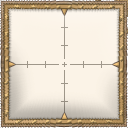
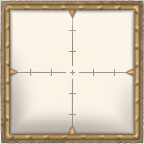
various hacking

diff --git a/net/lahwran/zanminimap/ZanMinimap.java b/net/lahwran/zanminimap/ZanMinimap.java
@@ -127,7 +127,7 @@ public class ZanMinimap {
         {
             if (!conf.welcome) menu.iMenu = 0;
         }
-        if (obfhub.game.r == null && menu.iMenu > 1) menu.iMenu = 0;
+        if (obfhub.worldIsNull() && menu.iMenu > 1) menu.iMenu = 0;
 
         if ((obfhub.isIngameMenuUp()) ^ (Keyboard.isKeyDown(Keyboard.KEY_F6)))
             conf.enabled = false;
@@ -186,7 +186,7 @@ public class ZanMinimap {
         {
             if (this.q != 0) obfhub.glah(this.q);
 
-            if (conf.showmap)
+            if (conf.squaremap)
             {
                 if (conf.zoom == 3)
                 {
@@ -199,14 +199,15 @@ public class ZanMinimap {
                     this.q = obfhub.tex(mapcalc.map[conf.zoom]);
 
                 obfhub.draw_startQuads();
-                this.setMap(scWidth);
+                this.drawOnMap(scWidth);
                 obfhub.draw_finish();
 
+                GL11.glBlendFunc(GL11.GL_SRC_ALPHA, GL11.GL_ONE_MINUS_SRC_ALPHA);
                 try
                 {
                     obfhub.disp(obfhub.img("/minimap.png"));
                     obfhub.draw_startQuads();
-                    this.setMap(scWidth);
+                    this.drawOnMap(scWidth);
                     obfhub.draw_finish();
                 }
                 catch (Exception localException)
@@ -222,7 +223,7 @@ public class ZanMinimap {
                     GL11.glRotatef(-this.direction - 90.0F, 0.0F, 0.0F, 1.0F);
                     GL11.glTranslatef(-(scWidth - 32.0F), -37.0F, 0.0F);
                     obfhub.draw_startQuads();
-                    this.setMap(scWidth);
+                    this.drawOnMap(scWidth);
                     obfhub.draw_finish();
                 }
                 catch (Exception localException)
@@ -258,12 +259,11 @@ public class ZanMinimap {
                     GL11.glTranslatef(-0.5f, -0.5f, 0.0f);
 
                 obfhub.draw_startQuads();
-                this.setMap(scWidth);
+                this.drawOnMap(scWidth);
                 obfhub.draw_finish();
                 GL11.glPopMatrix();
                 GL11.glBlendFunc(GL11.GL_SRC_ALPHA, GL11.GL_ONE_MINUS_SRC_ALPHA);
 
-                GL11.glColor3f(1.0F, 1.0F, 1.0F);
                 this.drawRound(scWidth);
                 this.drawDirections(scWidth);
 
@@ -288,7 +288,7 @@ public class ZanMinimap {
                                 GL11.glTranslatef(-(scWidth - 32.0F), -37.0F, 0.0F);
                                 GL11.glTranslated(0.0D, -34.0D, 0.0D);
                                 obfhub.draw_startQuads();
-                                this.setMap(scWidth);
+                                this.drawOnMap(scWidth);
                                 obfhub.draw_finish();
                             }
                             catch (Exception localException)
@@ -327,7 +327,7 @@ public class ZanMinimap {
                                 GL11.glTranslatef(-(scWidth - 32.0F), -37.0F, 0.0F);
                                 GL11.glTranslated(0.0D, -hypot, 0.0D);
                                 obfhub.draw_startQuads();
-                                this.setMap(scWidth);
+                                this.drawOnMap(scWidth);
                                 obfhub.draw_finish();
                             }
                             catch (Exception localException)
@@ -379,8 +379,6 @@ public class ZanMinimap {
         }
     }
 
-
-
     private void showCoords(int scWidth, int scHeight)
     {
         if (!conf.hide)
@@ -405,7 +403,7 @@ public class ZanMinimap {
         {
             obfhub.disp(obfhub.img("/roundmap.png"));
             obfhub.draw_startQuads();
-            this.setMap(paramInt1);
+            this.drawOnMap(paramInt1);
             obfhub.draw_finish();
         }
         catch (Exception localException)
@@ -414,9 +412,7 @@ public class ZanMinimap {
         }
     }
 
-
-
-    private void setMap(int paramInt1)
+    private void drawOnMap(int paramInt1)
     {
         obfhub.ldraw_addVertexWithUV(paramInt1 - 64.0D, 64.0D + 5.0D, 1.0D, 0.0D, 1.0D);
         obfhub.ldraw_addVertexWithUV(paramInt1, 64.0D + 5.0D, 1.0D, 1.0D, 1.0D);

diff --git a/net/lahwran/zanminimap/Config.java b/net/lahwran/zanminimap/Config.java
@@ -48,7 +48,7 @@ public class Config {
     public int menuKey = Keyboard.KEY_M;
 
     /** Square map toggle */
-    public boolean showmap = false;
+    public boolean squaremap = false;
 
     /** Show coordinates toggle */
     public boolean coords = true;
@@ -152,7 +152,7 @@ public class Config {
                 String[] curLine = sCurrentLine.split(":");
 
                 if (curLine[0].equals("Show Minimap"))
-                    showmap = Boolean.parseBoolean(curLine[1]);
+                    squaremap = Boolean.parseBoolean(curLine[1]);
                 else if (curLine[0].equals("Show Coordinates"))
                     coords = Boolean.parseBoolean(curLine[1]);
                 else if (curLine[0].equals("Dynamic Lighting"))
@@ -573,7 +573,7 @@ public class Config {
         try
         {
             PrintWriter out = new PrintWriter(new FileWriter(settingsFile));
-            out.println("Show Minimap:" + Boolean.toString(showmap));
+            out.println("Show Minimap:" + Boolean.toString(squaremap));
             out.println("Show Coordinates:" + Boolean.toString(coords));
             out.println("Dynamic Lighting:" + Boolean.toString(lightmap));
             out.println("Terrain Depth:" + Boolean.toString(heightmap));

diff --git a/net/lahwran/zanminimap/ObfHub.java b/net/lahwran/zanminimap/ObfHub.java
@@ -60,9 +60,22 @@ public class ObfHub {
         try {
             fd world = getWorld();
             Class worldclass = world.getClass();
-            Field worlddatafield = worldclass.getDeclaredField("x");
+            Field worlddatafield = null;
+            while (true) { //
+                
+                try {
+                    worlddatafield = worldclass.getDeclaredField("x");
+                    break;
+                } catch (NoSuchFieldException e) {
+                    worldclass = worldclass.getSuperclass();
+                    continue;
+                }
+            }
             worlddatafield.setAccessible(true);
-            ei worldata = (ei) worlddatafield.get(world);
+            
+            ei worldata;
+            
+            worldata = (ei) worlddatafield.get(world);
             return worldata.j();
         } catch (Exception e) {
             throw new RuntimeException(e);
@@ -327,5 +340,8 @@ public class ObfHub {
             default:
                 return original;
         }*/
+    }
+    public boolean worldIsNull() {
+        return game.r == null;
     }
 }

diff --git a/net/lahwran/zanminimap/Menu.java b/net/lahwran/zanminimap/Menu.java
@@ -786,7 +786,7 @@ public class Menu {
         else if (i == 1) return conf.hide;
         else if (i == 2) return conf.lightmap;
         else if (i == 3) return conf.heightmap;
-        else if (i == 4) return conf.showmap;
+        else if (i == 4) return conf.squaremap;
         else if (i == 5) return conf.welcome;
         else if (i == 6) return conf.threading;
         else if (i == 7) return conf.color;
@@ -814,7 +814,7 @@ public class Menu {
                 conf.lightmap = !conf.heightmap;
         }
         else if (i == 4)
-            conf.showmap = !conf.showmap;
+            conf.squaremap = !conf.squaremap;
         else if (i == 5)
             conf.welcome = !conf.welcome;
         else if (i == 6)

diff --git a/net/lahwran/zanminimap/MapCalculator.java b/net/lahwran/zanminimap/MapCalculator.java
@@ -221,7 +221,7 @@ public class MapCalculator implements Runnable {
                     if (Math.sqrt(a * a + c * c) < (e - f))
                         check = true;
 
-                    if (check || conf.showmap || conf.full) {
+                    if (check || conf.squaremap || conf.full) {
                         color24 = shadeBlock(data, startX + imageY, startZ - imageX);
                     }
 
